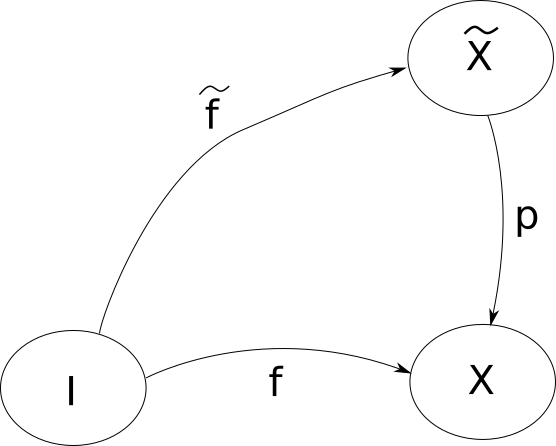
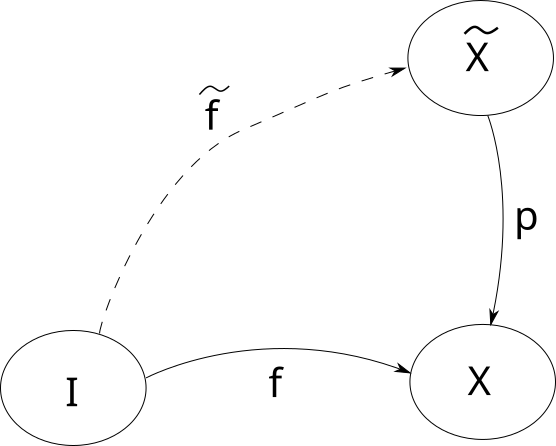
diagrama de levantamiento general

diff --git a/tesis/cubrimientos_pares.tex b/tesis/cubrimientos_pares.tex
@@ -613,6 +613,9 @@ caminos (teoremas \ref{thm:lifting-theorem},
   si y solo si
   \[ f_* \left( \pi (Y, y_0) \right) \subseteq p_* \left( \pi ( \tilde X
       , \tilde x_0 ) \right) \]
+  \begin{center}
+    \includegraphics[scale=0.3]{./imagenes/lifting-path-gen.png}
+  \end{center}
 \end{teorema}
 Que un espacio \(Y\) sea localmente arco-conexo equivale a pedir que
 para todo punto \(y \in Y\) y cualquier vecindad \(U_y \subset Y\) de
